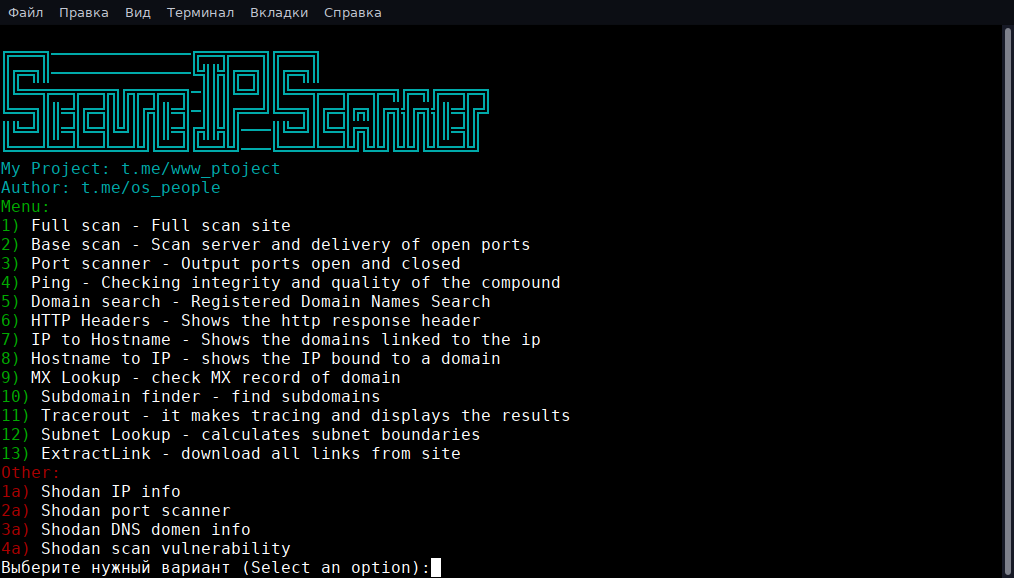
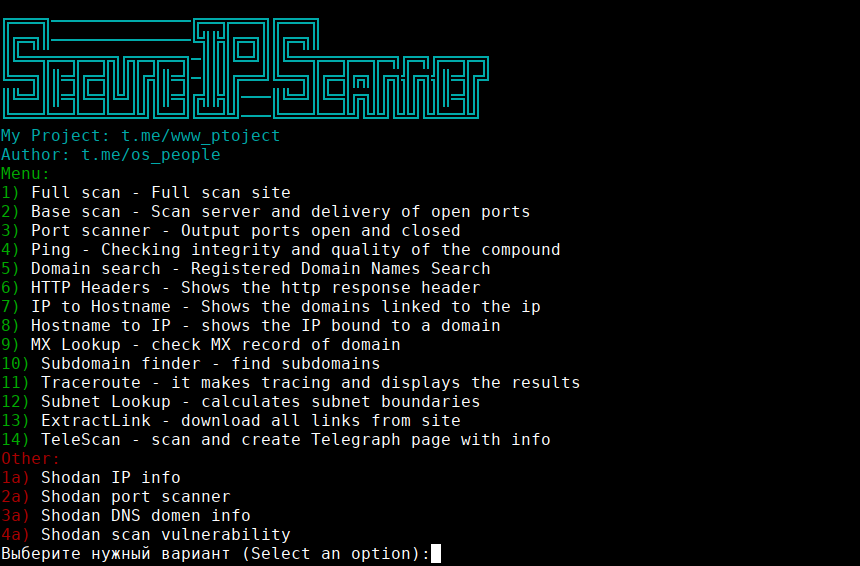
v 3.6
Add the output information in the form of an article by the Telegraph

Changed region(s): [[0.0, 0.0, 0.6953, 1.0], [0.9674, 0.03, 1.0, 1.0]]

diff --git a/main.py b/main.py
@@ -6,6 +6,9 @@ import json
 import time
 import json
 import shodan
+from telegraph import Telegraph
+telegraph = Telegraph()
+telegraph.create_account(short_name='Hacker228')
 
 # ---------------------------
 #61TvA2dNwxNxmWziZxKzR5aO9tFD00Nj
@@ -24,7 +27,7 @@ import shodan
 shodanKey = 'PSKINdQe1GyxGgecYz2191H2JoS9qvgD'
 api = shodan.Shodan(shodanKey)
 
-colorNum = ['\033[32m','\033[0m','\033[31m','\033[0m','\036[0m'] # это окраска текста с помощью ANSI
+colorNum = ['\033[32m','\033[0m','\033[31m','\033[0m','\033[36m'] # это окраска текста с помощью ANSI
 def startScript():
 	global url, pingType
 	os.system('clear')
@@ -50,7 +53,8 @@ Author: t.me/os_people\033[0m
  + colorNum[0] +'\n10)'+ colorNum[1] + ' Subdomain finder - find subdomains'
  + colorNum[0] +'\n11)'+ colorNum[1] + ' Traceroute - it makes tracing and displays the results'
  + colorNum[0] +'\n12)'+ colorNum[1] + ' Subnet Lookup - calculates subnet boundaries'
- + colorNum[0] +'\n13)'+ colorNum[1] + ' ExtractLink - download all links from site')
+ + colorNum[0] +'\n13)'+ colorNum[1] + ' ExtractLink - download all links from site'
+ + colorNum[0] +'\n14)'+ colorNum[1] + ' TeleScan - scan and create Telegraph page with info ')
 	print(colorNum[2]+'Other:'+ colorNum[1]
 +colorNum[2]+'\n1a)'+ colorNum[1]+ ' Shodan IP info'
 +colorNum[2]+'\n2a)'+ colorNum[1]+ ' Shodan port scanner'
@@ -100,6 +104,9 @@ Author: t.me/os_people\033[0m
 	elif selectMode == '13':
 		url = input('Введи домен сайта(не URL!): ')
 		linkExtract()
+	elif selectMode == '14':
+		url = input('Введи IP или домен сайта(не URL!): ')
+		teleMode()
 	elif selectMode == '1a':
 		url = input('Введите IP или домен: ')
 		shodanFunc()
@@ -117,6 +124,80 @@ Author: t.me/os_people\033[0m
 		time.sleep(1)
 		startScript()
 
+
+def teleMode():
+	try:
+		baseReq = requests.get('http://ip-api.com/json/' + url + '?fields=status,message,continent,continentCode,country,countryCode,region,regionName,city,district,zip,lat,lon,timezone,offset,currency,isp,org,as,asname,reverse,mobile,proxy,hosting,query',headers={'User-Agent': UserAgent().firefox},
+			data = {'fields': 'status,message,continent,continentCode,country,'+
+ 				'countryCode,region,regionName,city,district,zip,lat,lon,'+
+ 				'timezone,offset,currency,isp,org,as,asname,reverse,mobile,proxy,hosting,query'})
+		jsonGet = json.loads(baseReq.text)
+		subdomainReq = requests.get('https://api.hackertarget.com/hostsearch/?q='+url)
+		subdomainText = subdomainReq.text
+		subdomainText2 = subdomainText.replace('''
+''','</p>')
+		ip = jsonGet['query']
+		shodanResult = api.host(ip,history=True) # сам запрос
+		response = telegraph.create_page(
+    str(url),
+    html_content=
+    '<p>'+'IP: ' + format(str(shodanResult['ip_str']))+'</p>'+
+    '<p>'+'ASN: ' + format(str(shodanResult['asn']))+'</p>'+
+    '<p>'+'ISP: ' + format(str(shodanResult['isp']))+'</p>'+
+    '<p>'+'Country: ' + format(str(shodanResult['country_name']))+'</p>'+
+    '<p>'+'City: ' + format(str(shodanResult['city']))+'</p>'
+    '<p>'+'Organization: ' + format(str(shodanResult['org']))+'</p>'
+    '<p>'+'Open Ports: ' + format(str(shodanResult['ports']))+'</p>'
+    '<p>'+'Domains: ' + format(str(shodanResult["data"][0]["domains"]))+'</p>'
+    '<p>'+'OS: ' + format(str(shodanResult["data"][0]["os"]))+'</p>'
+    '<p>'+'Vulns: ' + format(str(shodanResult["vulns"]))+'</p>'
+    '<p>'+'Coordinates:'+'</p>'
+    '<p>'+'├ Latitude(Широта): ' + str(jsonGet['lat'])+'</p>'
+    '<p>'+'└ Longitude(Долгота):' + str(jsonGet['lon'])+'</p>'
+    '<p>'+'Timezone: ' +  jsonGet['timezone']+'</p>'
+    '<p>'+'Provaider: ' +  jsonGet['isp']+'</p>'
+    '<p>'+'AS: ' +  jsonGet['as']+'</p>'
+    '<p>'+'Mobile: ' +  str(jsonGet['mobile'])+'</p>'
+    '<p>'+'Proxy: ' +  str(jsonGet['proxy'])+'</p>'
+    '<p>'+'Hosting: ' +  str(jsonGet['hosting'])+'</p>'
+    '<p>'+'Map: ' + 'https://cache.ip-api.com/'+str(jsonGet['lon']) + ',' + str(jsonGet['lat']) +',10' +'</p>'
+)
+		print('\nLink:\nhttps://telegra.ph/{}'.format(response['path']))
+		restartMenu()
+	except KeyError:
+		baseReq = requests.get('http://ip-api.com/json/' + url + '?fields=status,message,continent,continentCode,country,countryCode,region,regionName,city,district,zip,lat,lon,timezone,offset,currency,isp,org,as,asname,reverse,mobile,proxy,hosting,query',headers={'User-Agent': UserAgent().firefox},
+			data = {'fields': 'status,message,continent,continentCode,country,'+
+ 				'countryCode,region,regionName,city,district,zip,lat,lon,'+
+ 				'timezone,offset,currency,isp,org,as,asname,reverse,mobile,proxy,hosting,query'})
+		jsonGet = json.loads(baseReq.text)
+		ip = jsonGet['query']
+		shodanResult = api.host(ip,history=True) # сам запрос
+		response = telegraph.create_page(
+    str(url),
+    html_content=
+    '<p>'+'\nIP: ' + format(str(shodanResult['ip_str']))+'</p>'+
+    '<p>'+'\nASN: ' + format(str(shodanResult['asn']))+'</p>'+
+    '<p>'+'\nISP: ' + format(str(shodanResult['isp']))+'</p>'+
+    '<p>'+'\nCountry: ' + format(str(shodanResult['country_name']))+'</p>'+
+    '<p>'+'\nCity: ' + format(str(shodanResult['city']))+'</p>'
+    '<p>'+'\nOrganization: ' + format(str(shodanResult['org']))+'</p>'
+    '<p>'+'\nOpen Ports: ' + format(str(shodanResult['ports']))+'</p>'
+    '<p>'+'\nDomains: ' + format(str(shodanResult["data"][0]["domains"]))+'</p>'
+    '<p>'+'\nOS: ' + format(str(shodanResult["data"][0]["os"]))+'</p>'
+    '<p>'+'\nVulns: Not Found'+'</p>'
+    '<p>'+'Coordinates:'+'</p>'
+    '<p>'+'├ Latitude(Широта): ' + str(jsonGet['lat'])+'</p>'
+    '<p>'+'└ Longitude(Долгота):' + str(jsonGet['lon'])+'</p>'
+    '<p>'+'\nTimezone: ' +  jsonGet['timezone']+'</p>'
+    '<p>'+'\nProvaider: ' +  jsonGet['isp']+'</p>'
+    '<p>'+'\nAS: ' +  jsonGet['as']+'</p>'
+    '<p>'+'\nMobile: ' +  str(jsonGet['mobile'])+'</p>'
+    '<p>'+'\nProxy: ' +  str(jsonGet['proxy'])+'</p>'
+    '<p>'+'\nHosting: ' +  str(jsonGet['hosting'])+'</p>'
+    '<p>'+'\nMap: ' + 'https://cache.ip-api.com/'+str(jsonGet['lon']) + ',' + str(jsonGet['lat']) +',10' +'</p>'
+)
+		print('\nLink:\nhttps://telegra.ph/{}'.format(response['path']))
+		restartMenu()
 
 def linkExtract():
 	os.system('clear')
@@ -472,8 +553,6 @@ def pingIP():  # кривой,но рабочий Ping. Работает с по
 '\n' + str(pingJson['nodes']['md1.node.check-host.net'][1]) + ': '+ str(pingJsonResult['md1.node.check-host.net'])+
 '\n' + str(pingJson['nodes']['nl1.node.check-host.net'][1]) + ': '+ str(pingJsonResult['nl1.node.check-host.net'])+
 '\n' + str(pingJson['nodes']['nl2.node.check-host.net'][1]) + ': '+ str(pingJsonResult['nl2.node.check-host.net'])+
-'\n' + str(pingJson['nodes']['ru1.node.check-host.net'][1]) + ': '+ str(pingJsonResult['ru1.node.check-host.net'])+
-'\n' + str(pingJson['nodes']['ru2.node.check-host.net'][1]) + ': '+ str(pingJsonResult['ru2.node.check-host.net'])+
 '\n' + str(pingJson['nodes']['ru3.node.check-host.net'][1]) + ': '+ str(pingJsonResult['ru3.node.check-host.net'])+
 '\n' + str(pingJson['nodes']['se2.node.check-host.net'][1]) + ': '+ str(pingJsonResult['se2.node.check-host.net'])+
 '\n' + str(pingJson['nodes']['ua1.node.check-host.net'][1]) + ': '+ str(pingJsonResult['ua1.node.check-host.net'])+

diff --git a/install.py b/install.py
@@ -25,6 +25,7 @@ My Project: t.me/www_ptoject
 		os.system('sudo apt install python3-pip -y')
 		os.system('pip3 install requests')
 		os.system('pip3 install fake_useragent')
+		os.system('pip3 install telegraph')
 		os.system('pip3 install shodan')
 		os.system('clear')
 		print('Чтобы запустить скрипт напишите python3 main.py')
@@ -34,6 +35,7 @@ My Project: t.me/www_ptoject
 		os.system('pip3 install requests')
 		os.system('pip3 install fake_useragent')
 		os.system('pip3 install shodan')
+		os.system('pip3 install telegraph')
 		os.system('clear')
 		print('Чтобы запустить скрипт напишите python3 main.py')
 	elif selectMode == '3':
@@ -44,10 +46,12 @@ My Project: t.me/www_ptoject
 2) pip3 install requests
 3) pip3 install fake_useragent
 4) pip3 install shodan
+5) pip3 install telegraph
 Для Termux:
 1) pip3 install requests
 2) pip3 install fake_useragent
 3) pip3 install shodan
+4) pip3 install telegraph
 ''')
 
 startInstall()
